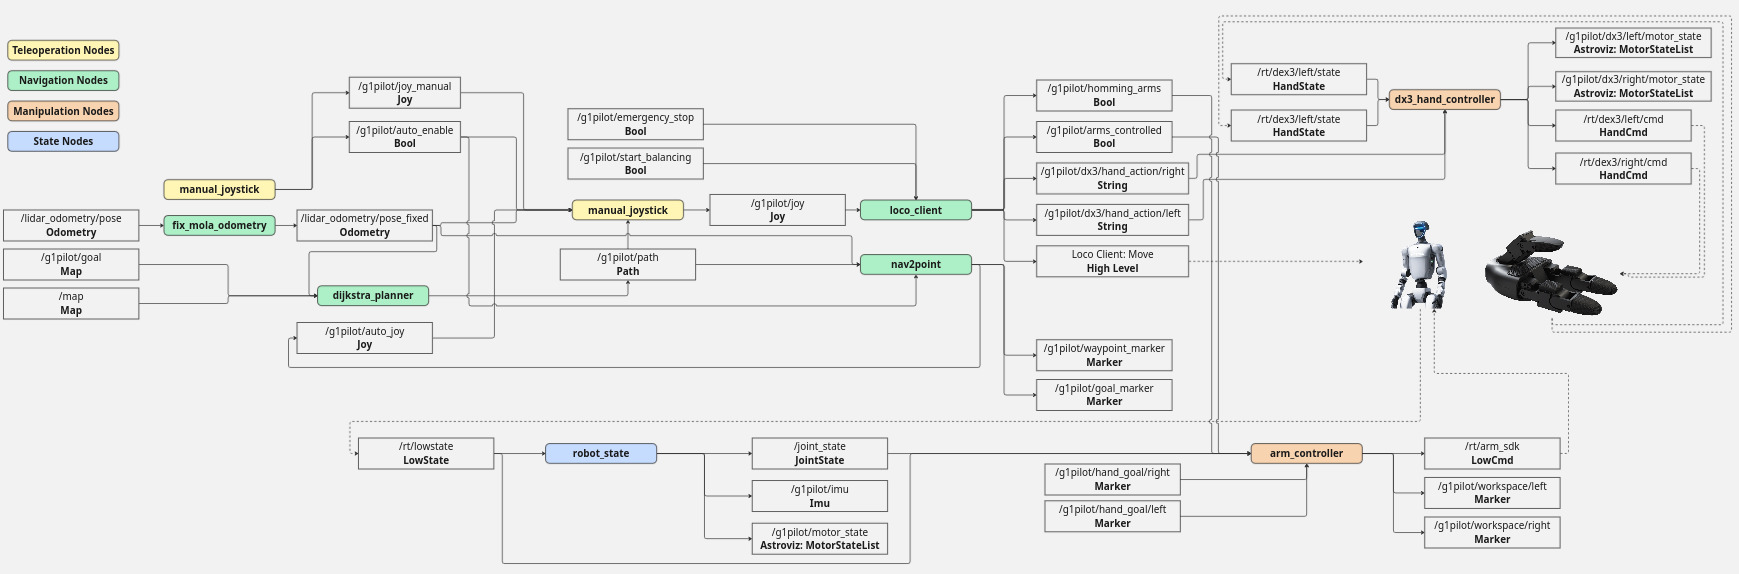
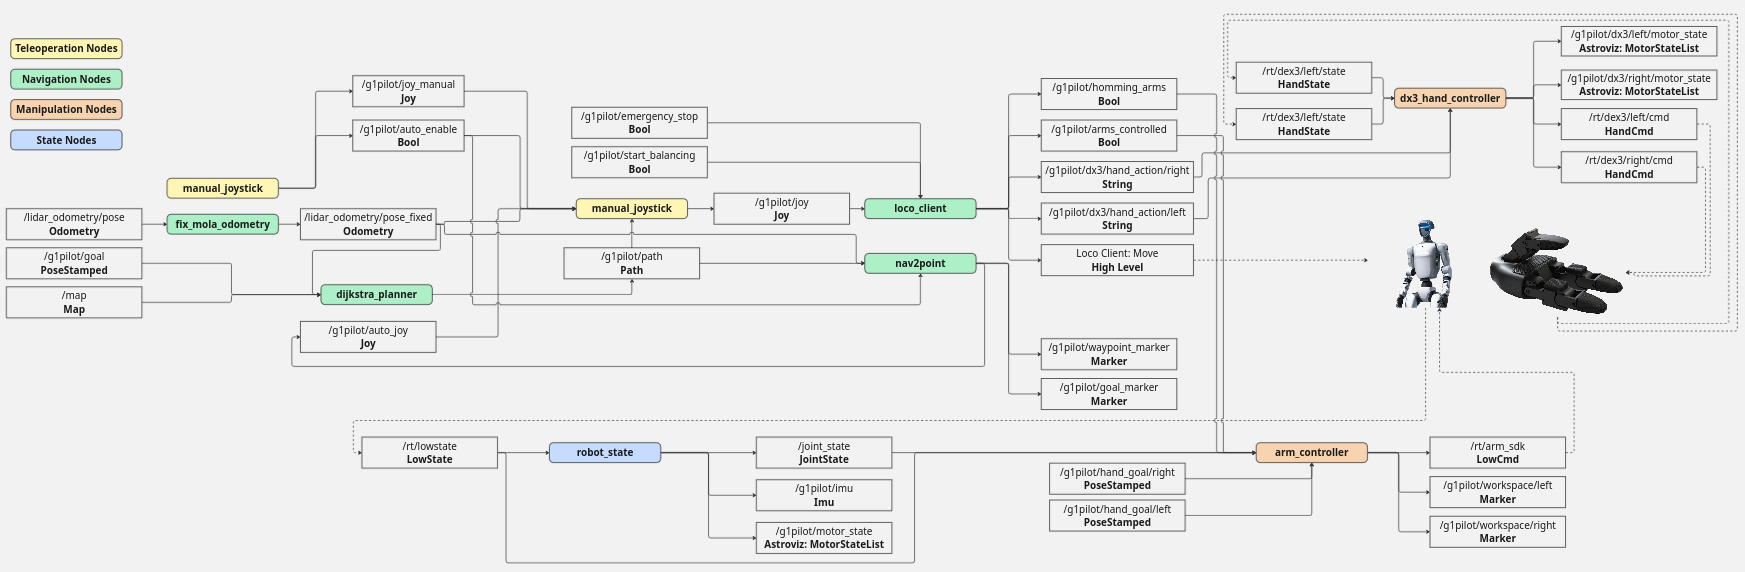
Fixing typo with a topic

diff --git a/g1pilot/navigation/dijkstra_planner.py b/g1pilot/navigation/dijkstra_planner.py
@@ -59,7 +59,7 @@ class DijkstraPlanner(Node):
         qos=QoSProfile(depth=10)
         self.sub_map=self.create_subscription(OccupancyGrid,self.get_parameter('map_topic').value,self.cb_map,qos)
         self.sub_odom=self.create_subscription(Odometry,self.get_parameter('odom_topic').value,self.cb_odom,qos)
-        self.sub_goal=self.create_subscription(PointStamped,self.get_parameter('goal_topic').value,self.cb_goal,qos)
+        self.sub_goal=self.create_subscription(PoseStamped,self.get_parameter('goal_topic').value,self.cb_goal,qos)
         self.pub_path=self.create_publisher(Path,self.get_parameter('path_topic').value,qos)
         self.map=None
         self.map_frame='map'
@@ -95,7 +95,7 @@ class DijkstraPlanner(Node):
         if not self.have_pose:
             self.get_logger().warn("No odom pose yet.")
             return
-        gx=float(msg.point.x); gy=float(msg.point.y)
+        gx=float(msg.pose.position.x); gy=float(msg.pose.position.y)
         if self.map is None:
             self.publish_path(self.line_points(self.px,self.py,gx,gy,msg.header.frame_id or 'map'),msg.header.frame_id or 'map')
             return
